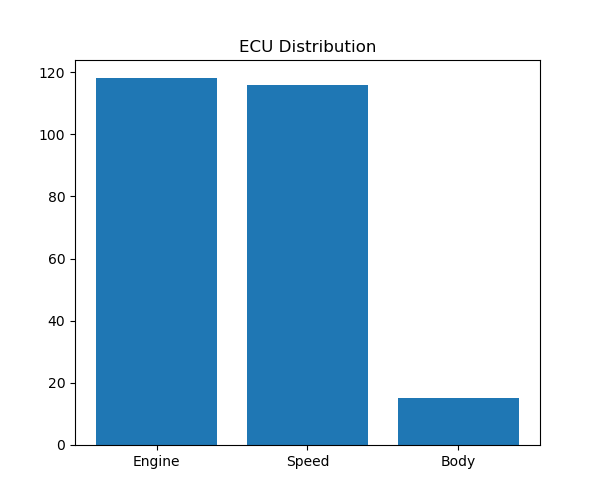
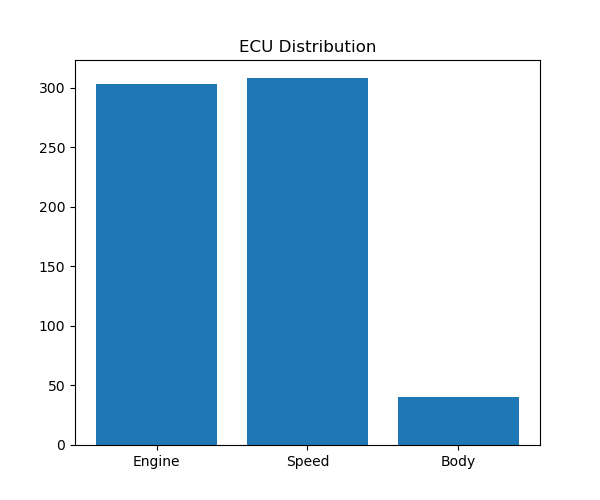
Add analysis chart

diff --git a/docs/assets/analysis/socketcan_report.md b/docs/assets/analysis/socketcan_report.md
@@ -4,17 +4,17 @@
 
 | Metric | Value |
 |---------|------:|
-| Total CAN Frames | 249 |
-| Engine ECU Frames | 118 |
-| Speed ECU Frames | 116 |
-| Body ECU Frames | 15 |
+| Total CAN Frames | 651 |
+| Engine ECU Frames | 303 |
+| Speed ECU Frames | 308 |
+| Body ECU Frames | 40 |
 
 ## Intrusion Detection Results
 
 | Detection | Count |
 |-----------|------:|
-| RPM Anomalies | 44 |
-| Speed Anomalies | 45 |
+| RPM Anomalies | 125 |
+| Speed Anomalies | 125 |
 
 ## Generated Artifacts
 
